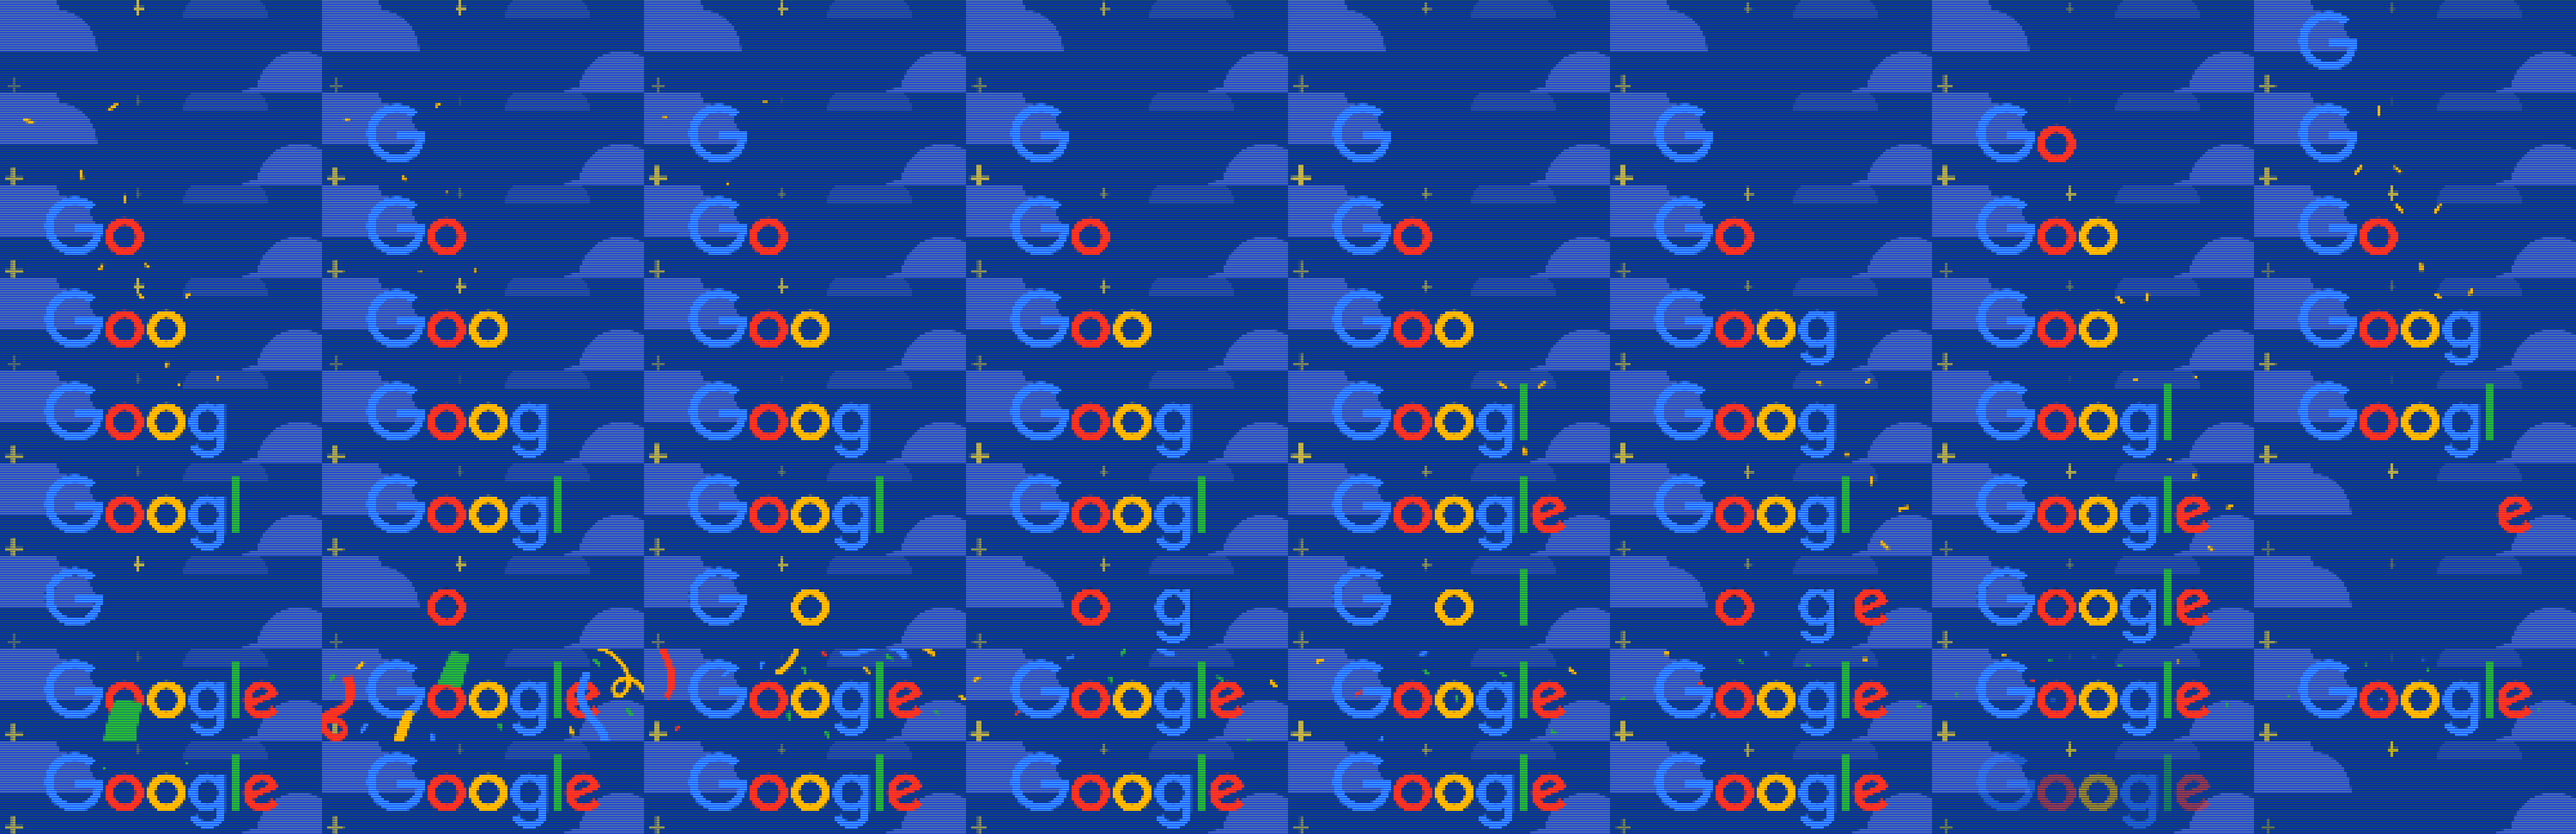
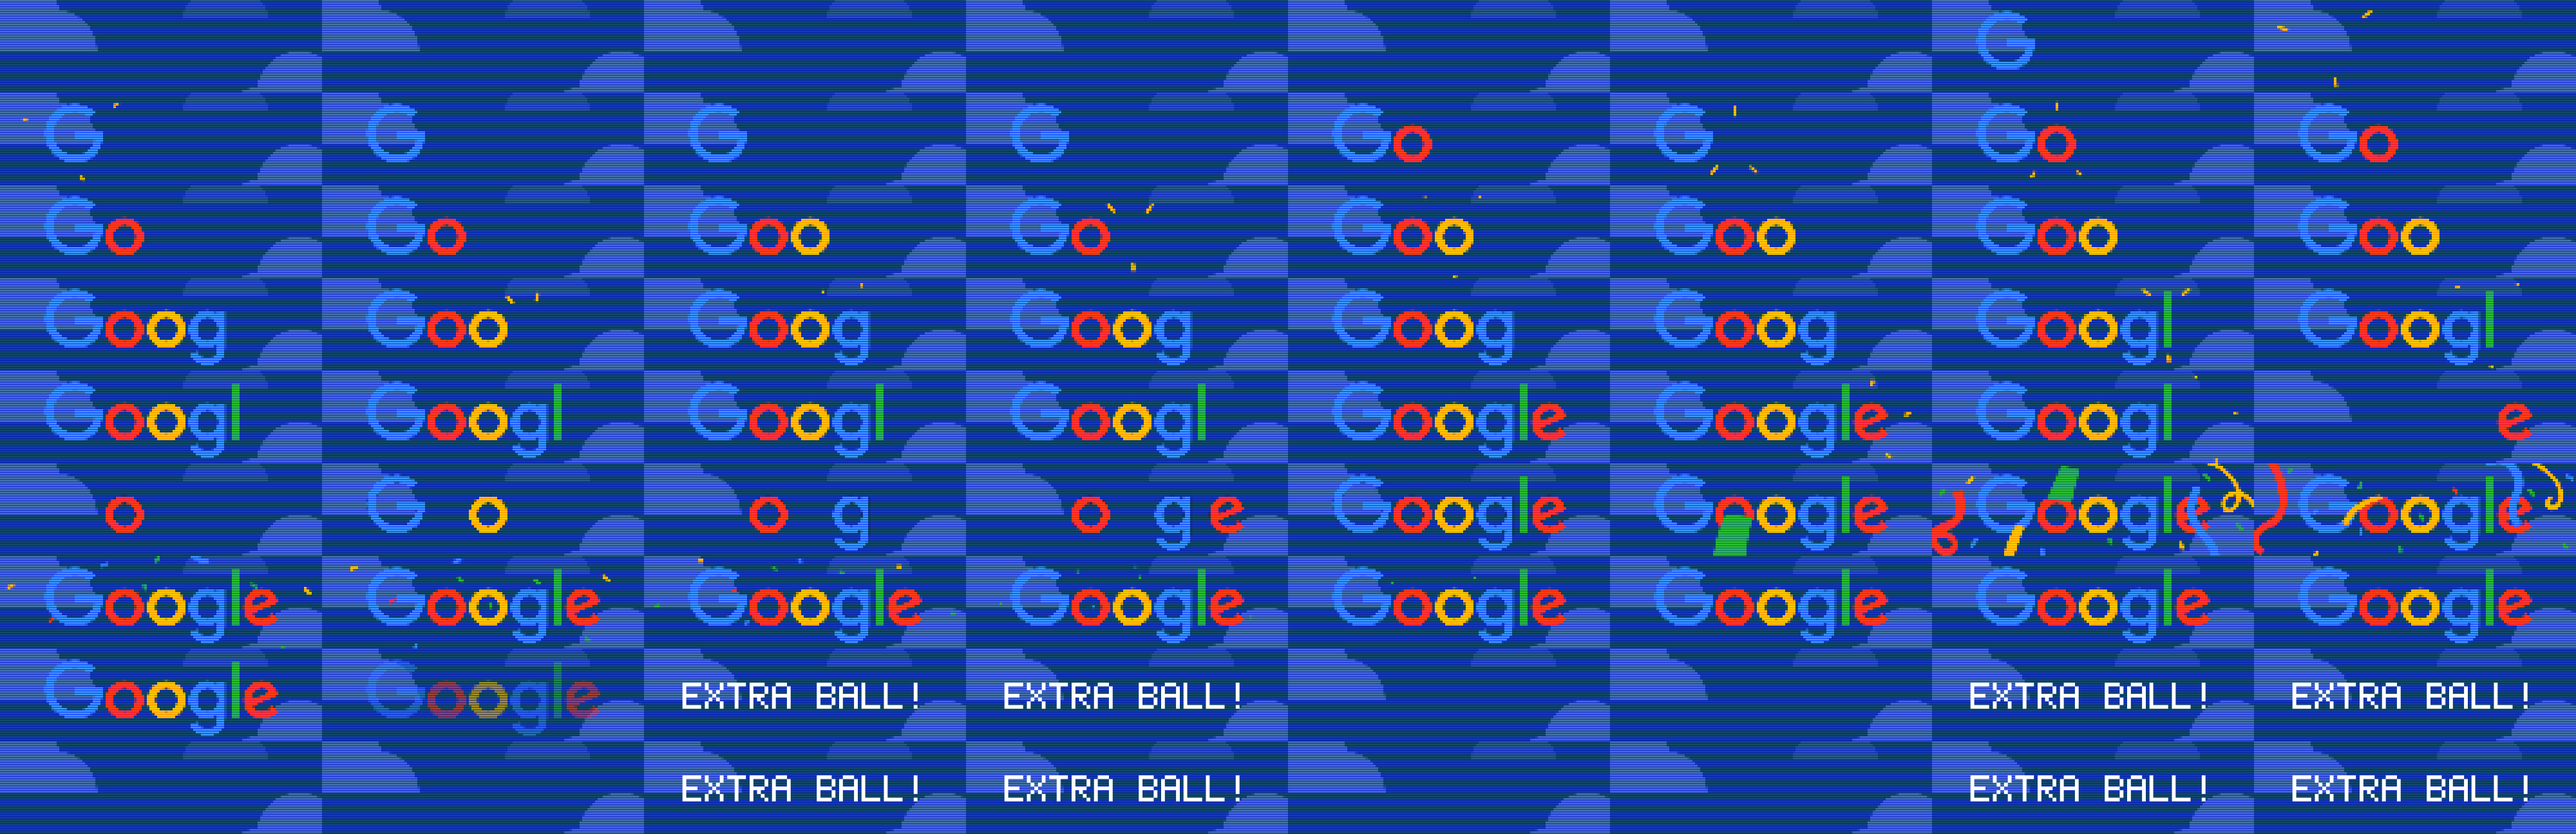
fix: update google word animation and change speed of animations to 12fps (#287)

diff --git a/test/game/view/widgets/bonus_animation_test.dart b/test/game/view/widgets/bonus_animation_test.dart
@@ -24,6 +24,7 @@ class MockCallback extends Mock {
 
 void main() {
   TestWidgetsFlutterBinding.ensureInitialized();
+  const animationDuration = 6;
 
   setUp(() async {
     // TODO(arturplaczek): need to find for a better solution for loading image
@@ -102,7 +103,7 @@ void main() {
 
       await tester.pump();
 
-      await Future<void>.delayed(const Duration(seconds: 4));
+      await Future<void>.delayed(const Duration(seconds: animationDuration));
 
       await tester.pump();
 
@@ -133,7 +134,7 @@ void main() {
           .state(find.byType(BonusAnimation))
           .didUpdateWidget(secondAnimation);
 
-      await Future<void>.delayed(const Duration(seconds: 4));
+      await Future<void>.delayed(const Duration(seconds: animationDuration));
 
       await tester.pump();
 

diff --git a/test/game/view/widgets/game_hud_test.dart b/test/game/view/widgets/game_hud_test.dart
@@ -147,7 +147,7 @@ void main() {
           await tester.pump();
           // TODO(arturplaczek): remove magic number once this is merged:
           // https://github.com/flame-engine/flame/pull/1564
-          await Future<void>.delayed(const Duration(seconds: 4));
+          await Future<void>.delayed(const Duration(seconds: 6));
 
           await expectLater(find.byType(ScoreView), findsOneWidget);
         });

diff --git a/lib/game/view/widgets/bonus_animation.dart b/lib/game/view/widgets/bonus_animation.dart
@@ -126,7 +126,7 @@ class _BonusAnimationState extends State<BonusAnimation>
     );
     animation = spriteSheet.createAnimation(
       row: 0,
-      stepTime: 1 / 24,
+      stepTime: 1 / 12,
       to: spriteSheet.rows * spriteSheet.columns,
       loop: false,
     );
